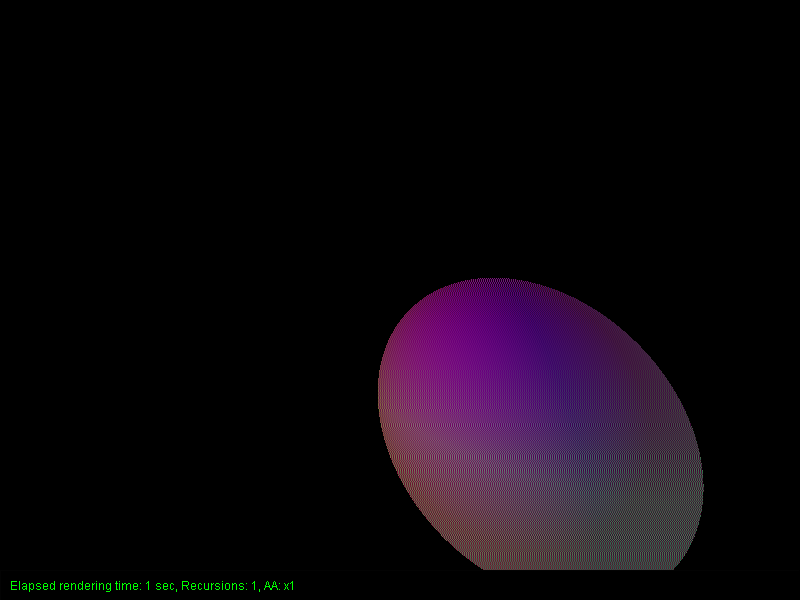
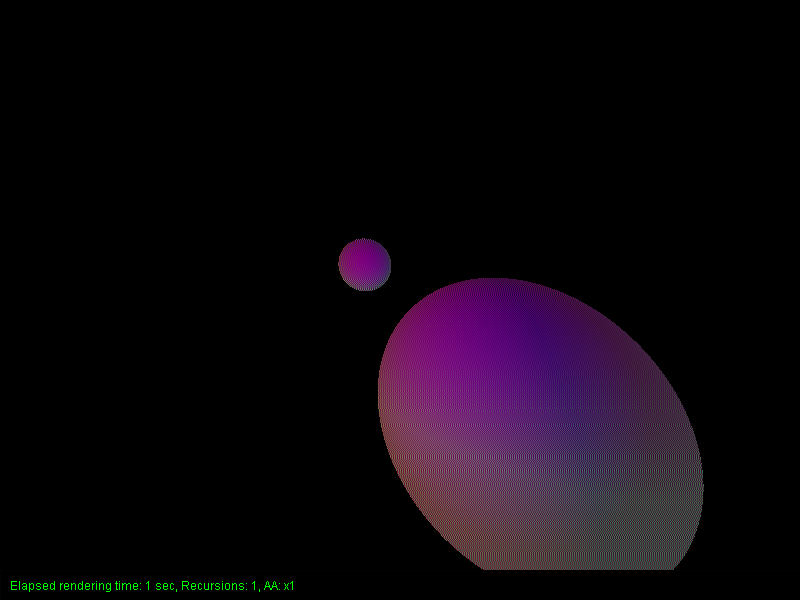
more objects are rendered

Changed region(s): [[0.4062, 0.39, 0.5, 0.51], [0.5312, 0.45, 0.6875, 0.51]]

diff --git a/VCG_Raytracer/src/raytracer/Raytracer.java b/VCG_Raytracer/src/raytracer/Raytracer.java
@@ -193,8 +193,6 @@ public class Raytracer {
                             }
                         }
                         mRenderWindow.setPixel(mRenderWindow.getBufferedImage(), pixelColor, new Vec2(x, y));
-                    } else {
-                        mRenderWindow.setPixel(mRenderWindow.getBufferedImage(), mBackgroundColor, new Vec2(x,y));
                     }
                 }
             }

diff --git a/VCG_Raytracer/src/Main.java b/VCG_Raytracer/src/Main.java
@@ -136,6 +136,7 @@ public class Main {
 
     private static void setupObjects(Scene renderScene) {
         renderScene.createSphere(new Vec3(1,1,-2), 1.25f, "lambert");
+        renderScene.createSphere(new Vec3(-1,-1,-5), 0.75f, "lambert");
     }
 
     private static void setupCornellBox(Scene renderScene) {
